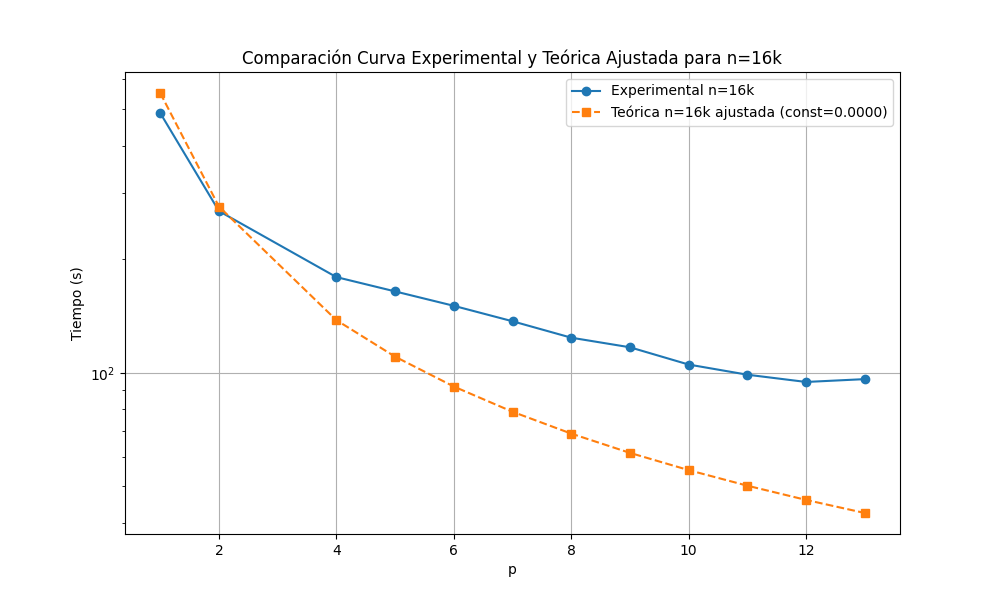
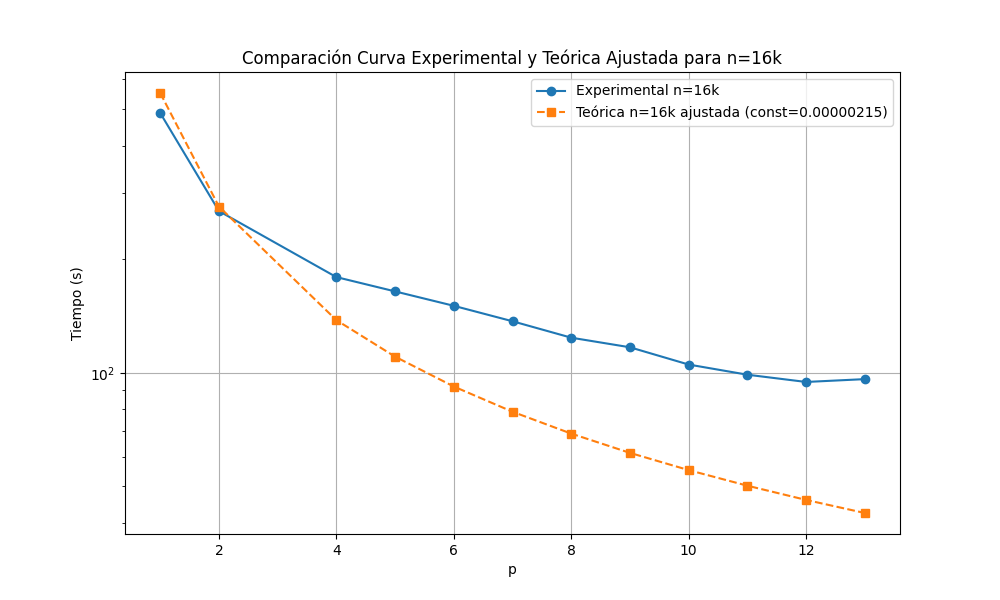
graficos itemB arreglados

Changed region(s): [[0.527, 0.12, 0.899, 0.21]]

diff --git a/ItemB/graficos.py b/ItemB/graficos.py
@@ -21,7 +21,7 @@ curva_teorica_16k = (n_16k**2 / p) + (n_16k * np.log(p))
 # Gráfico para n = 8k
 plt.figure(figsize=(10, 6))
 plt.plot(p, tiempos_8k, 'o-', label='Experimental n=8k')
-plt.plot(p, curva_teorica_8k, 's--', label='Teórica n=8k (1/10^5)')
+plt.plot(p, curva_teorica_8k, 's--', label='Teórica n=8k')
 plt.xlabel('p')
 plt.ylabel('Tiempo (s)')
 # escala log
@@ -73,7 +73,7 @@ const_8k = res_8k.x[0]
 # Gráfico para n = 8k
 plt.figure(figsize=(10, 6))
 plt.plot(p, tiempos_8k, 'o-', label='Experimental n=8k')
-plt.plot(p, const_8k * curva_teorica_8k, 's--', label=f'Teórica n=8k ajustada (const={const_8k:.4f})')
+plt.plot(p, const_8k * curva_teorica_8k, 's--', label=f'Teórica n=8k ajustada (const={const_8k:.8f})')
 plt.xlabel('p')
 plt.ylabel('Tiempo (s)')
 plt.yscale('log')
@@ -90,7 +90,7 @@ const_9k = res_9k.x[0]
 # Gráfico para n = 9k
 plt.figure(figsize=(10, 6))
 plt.plot(p, tiempos_9k, 'o-', label='Experimental n=9k')
-plt.plot(p, const_9k * curva_teorica_9k, 's--', label=f'Teórica n=9k ajustada (const={const_9k:.4f})')
+plt.plot(p, const_9k * curva_teorica_9k, 's--', label=f'Teórica n=9k ajustada (const={const_9k:.8f})')
 plt.xlabel('p')
 plt.ylabel('Tiempo (s)')
 plt.yscale('log')
@@ -107,7 +107,7 @@ const_16k = res_16k.x[0]
 # Gráfico para n = 16k
 plt.figure(figsize=(10, 6))
 plt.plot(p, tiempos_16k, 'o-', label='Experimental n=16k')
-plt.plot(p, const_16k * curva_teorica_16k, 's--', label=f'Teórica n=16k ajustada (const={const_16k:.4f})')
+plt.plot(p, const_16k * curva_teorica_16k, 's--', label=f'Teórica n=16k ajustada (const={const_16k:.8f})')
 plt.xlabel('p')
 plt.ylabel('Tiempo (s)')
 plt.yscale('log')
